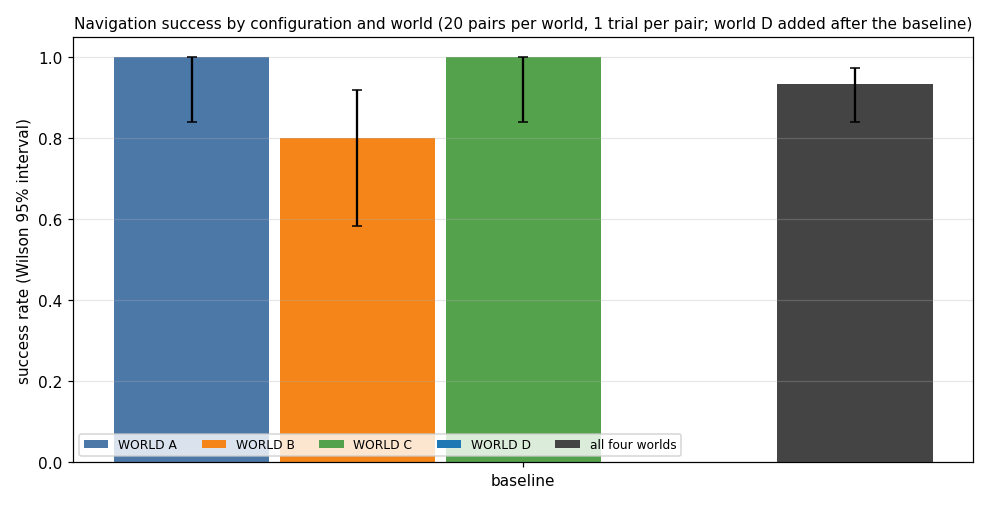
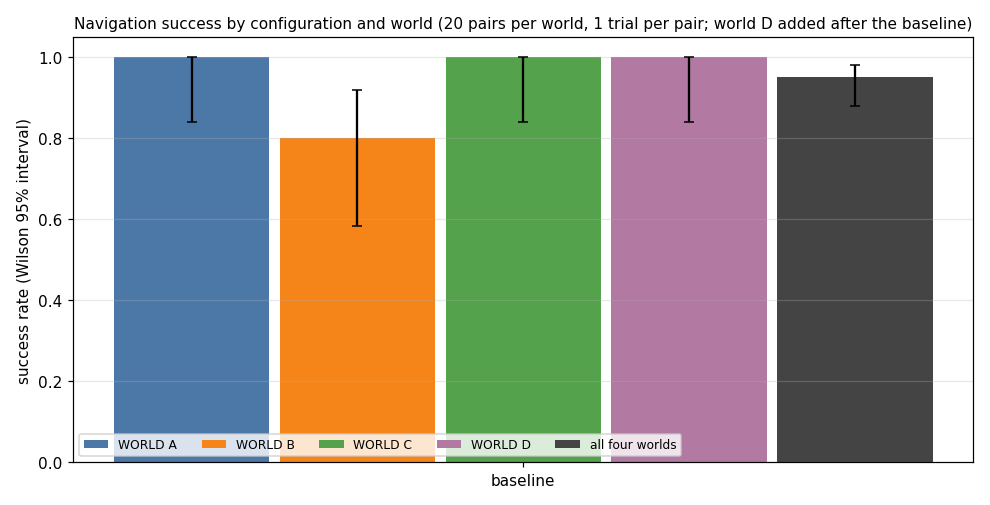
Baseline in world D (20/20); journal: D did not create headroom

Changed region(s): [[0.6061, 0.0891, 0.9394, 0.9208], [0.4242, 0.8614, 0.4848, 0.8911]]

diff --git a/docs/progress.md b/docs/progress.md
@@ -68,3 +68,4 @@ A Nav2 configuration study in simulation: a differential-drive robot in Gazebo b
 - 2026-10-26 (Ubuntu): Owner chose 20 pairs per world (protocol change (k)); pairs extended (first 10 unchanged). Added `analysis.py` (pre-registered decision rule + 5 unit tests), `scripts/analyse.py`, `scripts/run_config.sh`. Baseline world A: 20/20 succeeded. World B running (first timeouts seen).
 - 2026-10-26 (Ubuntu): Phase 3 baseline complete: 60 trials, 56 succeeded; failures all in world B (3 timeouts, 1 abort; 2 with AMCL error above 0.5 m). Zero collisions. `docs/baseline.md` written, figure `phase3-baseline-success.png`. Open: world-C ceiling (proposal above).
 - 2026-10-26 (Ubuntu): Owner chose option (b): world D (dense random clutter, seed 20261027) added after the baseline; mapped (41/43 waypoints), aligned (0.5 deg), 20 pairs. Protocol change log (l); analyse.py now reports pooled A-C (original design) and A-D (with post-hoc D). Grid is now 480 trials.
+- 2026-10-26 (Ubuntu): Baseline in world D: 20/20 (median time 38.5 s, mean AMCL error 0.08 m, no collisions). So the post-hoc world D did NOT create headroom: baseline success is 20/20 in A, C and D; only B (16/20) leaves room. Consequence for H2: untestable in C1 and D; B is the only world with failures to remove (a post-hoc choice of test world, to be labelled as such). Phase 4 runs continue (`scripts/run_phase4.sh`, started 16:48 UTC, about 5 to 6 h): comparisons of time, path and recoveries remain meaningful, and any drop in success is detectable.

diff --git a/results/summary.md b/results/summary.md
@@ -7,8 +7,9 @@ Success rate with Wilson 95% interval; time and path are medians over successful
 | baseline | world_a | 20/20 | 20 | 1.00 (0.84 to 1.00) | 44.4 | 8.41 | 0.00 | 0.10 | 0.128 |
 | baseline | world_b | 20/20 | 16 | 0.80 (0.58 to 0.92) | 64.3 | 12.99 | 0.00 | 0.30 | 0.169 |
 | baseline | world_c | 20/20 | 20 | 1.00 (0.84 to 1.00) | 57.8 | 10.60 | 0.00 | 1.35 | 0.127 |
+| baseline | world_d | 20/20 | 20 | 1.00 (0.84 to 1.00) | 38.5 | 7.89 | 0.00 | 0.05 | 0.081 |
 | baseline | A-C | 60/60 | 56 | 0.93 (0.84 to 0.97) | 53.9 | 10.53 | 0.00 | 0.58 | 0.142 |
-| baseline | A-D | 60/60 | 56 | 0.93 (0.84 to 0.97) | 53.9 | 10.53 | 0.00 | 0.58 | 0.142 |
+| baseline | A-D | 80/80 | 76 | 0.95 (0.88 to 0.98) | 47.9 | 9.87 | 0.00 | 0.45 | 0.127 |
 
 ## Failure reasons (valid trials)
 
